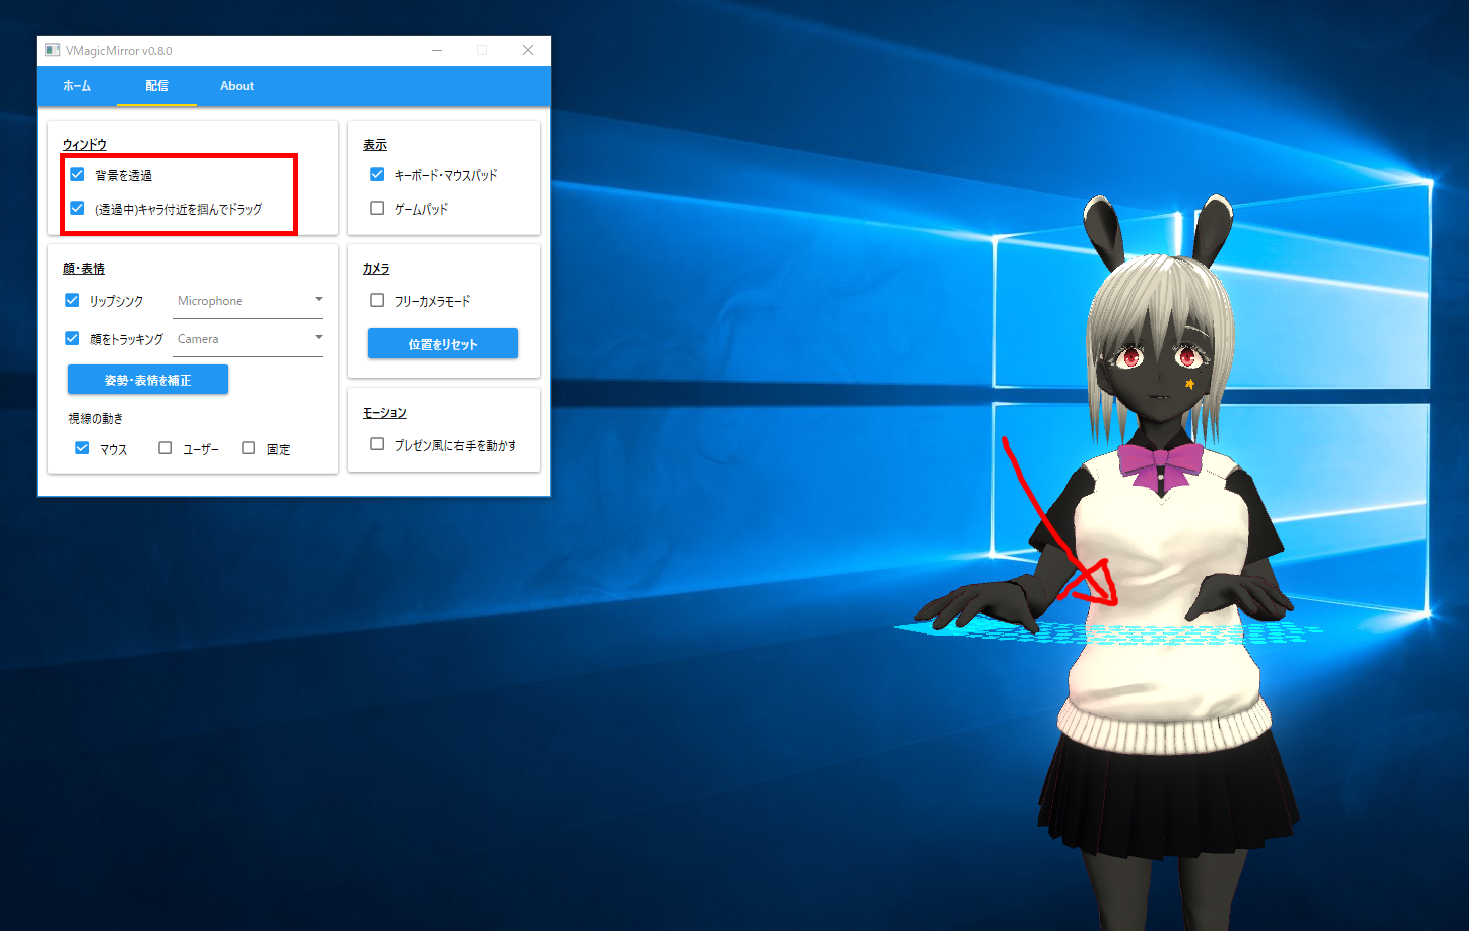
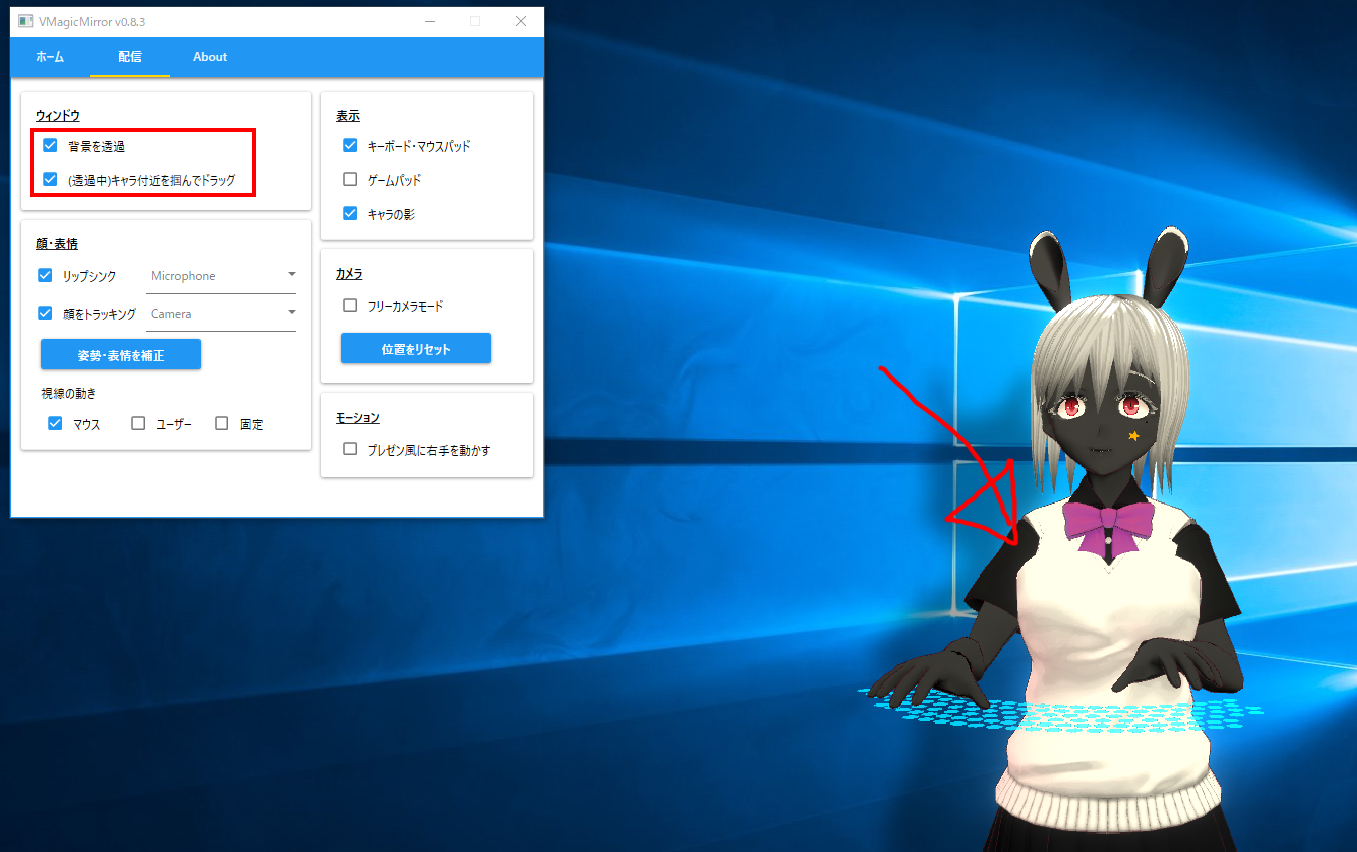
update for v0.8.3

diff --git a/en_get_started.md b/en_get_started.md
@@ -61,13 +61,16 @@ After setup transparent background, then confirm to check `(When Transparent) Dr
 
 [![Transparent Background](./images/get_started/img00_070_transparent_bg_drag.png)](./images/get_started/img00_070_transparent_bg_drag.png){: data-lightbox="img00_070"}
 
-However the `Drag the character` check might prevent your mouse input by invisible blocked area of VMagicMirror.
-
-[![Transparent BG cannot click](./images/get_started/img00_080_transparent_bg_cannot_click.png)](./images/get_started/img00_080_transparent_bg_cannot_click.png){: data-lightbox="img00_080"}
+However the `Drag the character` check might prevent your mouse input.
 
 So, please check off `(When Transparent) Drag the character` after you have moved the character to the position you like.
 
 [![Transparent BG can click](./images/get_started/img00_090_transparent_bg_can_click.png)](./images/get_started/img00_090_transparent_bg_can_click.png){: data-lightbox="img00_090"}
+
+**note: ** If you use v0.8.2a or older, and both check `Transparent Window`, `(When Transparent) Drag the character` is on, then some transparent area is also the target of dragging. This behavior is not intuitional so please be careful.
+
+[![Transparent BG cannot click](./images/get_started/img00_080_transparent_bg_cannot_click.png)](./images/get_started/img00_080_transparent_bg_cannot_click.png){: data-lightbox="img00_080"}
+
 
 
 **Hint:** VMagicMirror saves character position and size, so when you quit VMagicMirror and restart, the character appears on the same place.
@@ -105,7 +108,7 @@ This motion is suited for working streaming or presentation, but you might needs
 
 ### 2.3.3. View
 
-Toggle `Keyboard` and `Gamepad` to show and hide them.
+Toggle `Keyboard`, `Gamepad` or `Avatar's Shadow` to show and hide them.
 
 [![Keyboard Visible](./images/get_started/img00_110_view_keyboard_visible.png)](./images/get_started/img00_110_view_keyboard_visible.png){: data-lightbox="img00_110"}
 

diff --git a/about_settings.md b/about_settings.md
@@ -129,7 +129,23 @@
 
 ## 3.4. ライト
 
-`ライト`タブでは光やBloomについて色彩、強さを調整できます。
+`ライト`タブでは光や影、Bloomについての設定を調節できます。
+
+キャラクターに照明を当てるライトと影の向きは別々の設定になっています。
+
+これは、キャラクターには上から光を当て、影は正面から当てるための仕組みです。
+
+
+影の向きと奥行を調節すると、キャラクターとデスクトップ画面の距離感を変更することもできます。
+
+デフォルト設定の影:
+
+[![Default Depth Shadow](./images/about_settings/img01_070_shadow_depth_default.png)](./images/about_settings/img01_070_shadow_depth_default.png){: data-lightbox="img01_070"}
+
+キャラと画面が離れているように見せるための調整例: 
+
+[![Default Depth Shadow](./images/about_settings/img01_080_shadow_depth_look_far.png)](./images/about_settings/img01_080_shadow_depth_look_far.png){: data-lightbox="img01_080"}
+
 
 ※VRMのキャラクターは`Unlit`系統のシェーダーが使われていることがあります。その場合、ライトを調整しても見た目が変わらないことに注意してください。
 

diff --git a/index.md b/index.md
@@ -3,10 +3,10 @@
 
 [English](./en_index.html)
 
-VMagicMirror v0.8.2a
+VMagicMirror v0.8.3
 
 * 作者: 獏星(ばくすたー)
-* 2019/05/21
+* 2019/06/03
 
 WindowsでVRMを表示し、特別なデバイスを使わずキャラクターを動かせるアプリケーションです。
 
@@ -63,6 +63,10 @@ VMagicMirrorは個人・商用利用を問わずお使いいただけます。
 * [Blog](https://www.baku-dreameater.net/)
 
 Twitterに関してはお問い合わせ、感想、利用報告などについて、ハッシュタグ`#VMagicMirror`でツイート頂ければ確認します。
+
+※ハッシュタグでのツイートについて、要望を書いているのに作成者が一切関知していない場合、Search Suggest Banされている可能性があります。お手数ですが[Shadowban.eu](https://shadowban.eu/)などで確認のうえ、もしSearch Suggest Banの対象でフィードバックをお寄せくださる場合はメンション(@ツイート)か以下Google Formにてお願いします。
+
+* [VMagicMirror要望・質問フォーム](https://forms.gle/ULLsY4C96ggZBfNw9)
 
 ## Sections
 

diff --git a/en_about_settings.md b/en_about_settings.md
@@ -114,7 +114,19 @@ In default the gamepad feature is available, but if you do not use it, and the V
 
 ## 3.4. Light
 
-In `Light` tab you can set the light and bloom colors and intensities.
+In `Light` tab you can set the light, shadow and bloom settings.
+
+Light and shadow has separated orientations, so you can set the light orientation simply for the avatar's looking, while adjust shadow orientation to show it on the back of the avatar.
+
+Also you can adjust the depth offset and orientation of the shadow to , so that your avatar looks near or far to the screen.
+
+Default setting : 
+
+[![Default Depth Shadow](./images/about_settings/img01_070_shadow_depth_default.png)](./images/about_settings/img01_070_shadow_depth_default.png){: data-lightbox="img01_070"}
+
+Example to show distance between screen and the character : 
+
+[![Default Depth Shadow](./images/about_settings/img01_080_shadow_depth_look_far.png)](./images/about_settings/img01_080_shadow_depth_look_far.png){: data-lightbox="img01_080"}
 
 **NOTE:** Please be aware that some VRM character uses `Unlit` type shader, to which the light setting has no effect.
 

diff --git a/changelog.md b/changelog.md
@@ -1,6 +1,25 @@
 
 # Change Log
 
+## v0.8.3 
+
+2019/06/02
+
+* 追加: キャラ背後に影を表示
+* 追加: ライトと影の向きについて、調整UIを追加(設定ウィンドウ > ライト)
+* 変更: デフォルトのカメラFOVを60度から40度に縮小
+* 変更: フリーカメラモードでカメラを回転するとき、なるべくキャラ中心に回転するような動かし方に変更
+* 変更: 背景を透過した状態でキャラをドラッグするとき、完全に透明な部分は掴んでもドラッグしないよう修正
+* 修正: VRMロード時のUIが崩れにくいよう対策
+
+## 不具合修正
+
+* 顔トラッキングを有効にして起動したとき、一度も顔検出していないと眉が下がり過ぎる問題を対策
+
+## その他
+
+* 正式に機能導入していなかったのにmaster/developブランチで導入前提になっていたライブラリを削除
+
 ## v0.8.2(a)
 
 2019/05/21

diff --git a/en_index.md b/en_index.md
@@ -3,10 +3,10 @@
 
 [Japanese](./index.html)
 
-VMagicMirror v0.8.2a
+VMagicMirror v0.8.3
 
 * Creator: 獏星(ばくすたー)
-* 2019/May/21
+* 2019/Jun/02
 
 VMagicMirror is application for Windows desktop, to move your VRM without any special devices.
 
@@ -61,6 +61,11 @@ Welcome for the bug reports and update requests!
 * [Blog](https://www.baku-dreameater.net/)
 
 If you use Twitter, the review comments or requests with tag `#VMagicMirror` is great for the creator to find.
+
+However the case is possible the author cannot find your feedback by Search Suggest Ban system of Twitter. If your tagged tweet is ignored, please visit to [Shadowban.eu](https://shadowban.eu/) to check it, and use mention (@ tweet) or following Google Form for the feedback.
+
+* [Feedback for VMagicMirror](https://forms.gle/Myt4vRdKLrYJLnGo9)
+
 
 ## Sections
 

diff --git a/troubleshooting.md b/troubleshooting.md
@@ -5,6 +5,8 @@
 
 ## 4.1. キャラクター付近のコントロールパネルや他のアプリケーションがクリックに反応しない
 
+v0.8.2aまたはそれ以前のバージョンでこの問題が起こる事があります。
+
 キャラクター付近をクリックしたままドラッグしてキャラクターが移動するか確認します。
 
 もし移動出来る場合は、離れた位置にキャラクターを退避し、再度試してみてください。

diff --git a/en_changelog.md b/en_changelog.md
@@ -3,6 +3,17 @@
 
 [Japanese](./changelog.html)
 
+## v0.8.3 
+
+2019/06/02
+
+* Add: shadow
+* Add: UI to adjust light and shadow direction ("light" tab in setting window)
+* Change: decrease FOV of camera from 60deg to 40deg
+* Change: free camera mode changes its rotational motion to track character. 
+* Change: disable dragging when you click transparent area, during transparent window mode
+* Fix: Stabilize the appearance of VRM load UI.
+
 ## v0.8.2(a)
 
 2019/05/21
